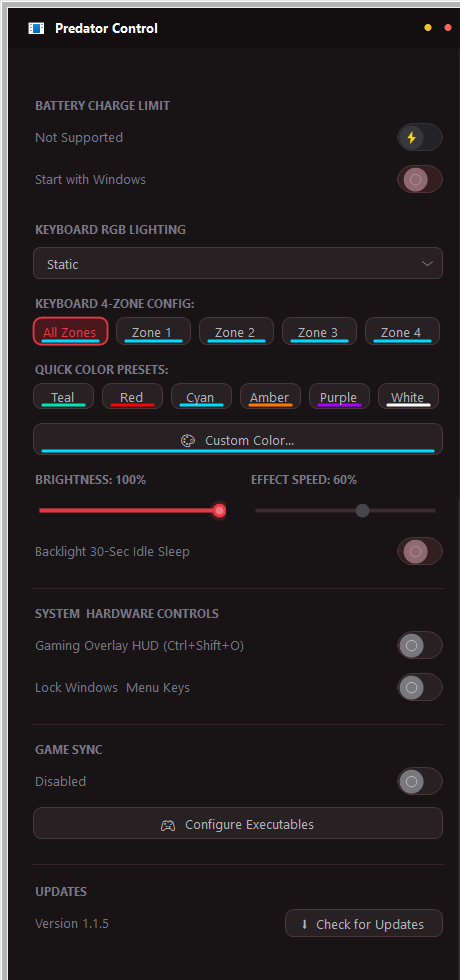
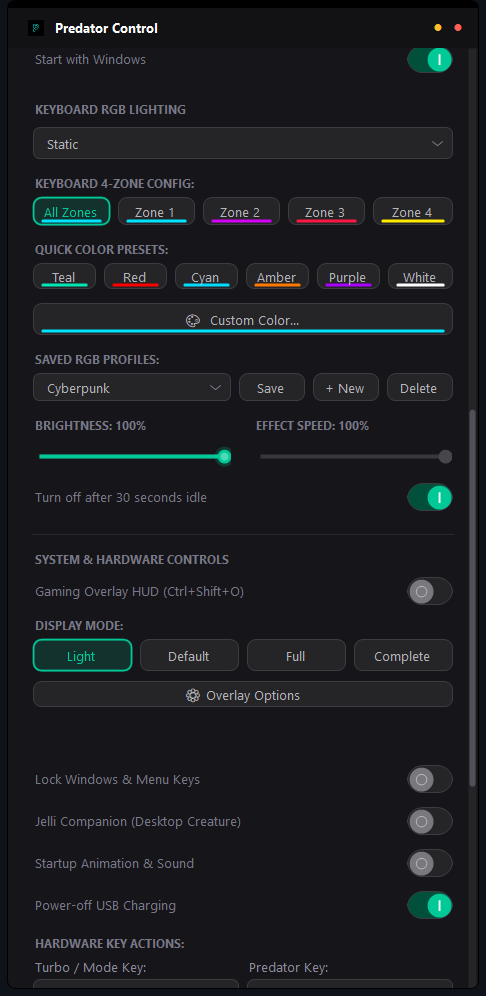
docs: refresh v1.4.2 Jelli, Classic and overlay previews

diff --git a/README.md b/README.md
@@ -23,17 +23,37 @@ Direct hardware control, **<1ms zero-lag UI responsiveness**, **~18–35 MB RAM*
 ### 🖼 UI & Gaming Overlay Previews
 
 <div align="center">
-  <h4>🎮 In-Game Gaming Overlay HUD (Zero-Injection ETW FPS Counter)</h4>
-  <p><img src="assets/preview_overlay.png" width="620" alt="In-Game Gaming Overlay HUD"/></p>
-  <br/>
+  <p>Real screenshots from Predator Control v1.4.2. Click any image to view it at full size.</p>
+  <h4>🪼 Jelli — Expanded Overview</h4>
+  <p><a href="assets/preview_jelli.png"><img src="assets/preview_jelli.png" width="430" alt="Predator Control v1.4.2 Jelli expanded Overview with jellyfish mascot and live hardware metrics"/></a></p>
+  <h4>🖥 Classic Control Panel</h4>
   <table>
     <tr>
-      <td align="center"><b>Dashboard, Thermals & GPU MUX Switch</b></td>
-      <td align="center"><b>RGB Lighting & System Controls</b></td>
+      <td align="center" width="50%"><b>Dashboard, Thermals & GPU Controls</b></td>
+      <td align="center" width="50%"><b>RGB Lighting & System Controls</b></td>
     </tr>
     <tr>
-      <td><img src="assets/preview_dashboard.png" width="340" alt="Dashboard Preview"/></td>
-      <td><img src="assets/preview_controls.png" width="340" alt="Controls Preview"/></td>
+      <td><a href="assets/preview_dashboard.png"><img src="assets/preview_dashboard.png" width="340" alt="Predator Control v1.4.2 Classic dashboard with live thermals, performance profiles, fan controls and GPU controls"/></a></td>
+      <td><a href="assets/preview_controls.png"><img src="assets/preview_controls.png" width="340" alt="Predator Control v1.4.2 Classic RGB lighting and system controls"/></a></td>
+    </tr>
+  </table>
+  <h4>🎮 Gaming Overlay — Four Display Modes</h4>
+  <table>
+    <tr>
+      <td align="center" width="50%"><b>Light</b></td>
+      <td align="center" width="50%"><b>Default</b></td>
+    </tr>
+    <tr>
+      <td><a href="assets/preview_overlay_light.png"><img src="assets/preview_overlay_light.png" width="179" alt="Predator Control v1.4.2 gaming overlay in Light mode"/></a></td>
+      <td><a href="assets/preview_overlay.png"><img src="assets/preview_overlay.png" width="328" alt="Predator Control v1.4.2 gaming overlay in Default mode"/></a></td>
+    </tr>
+    <tr>
+      <td align="center"><b>Full</b></td>
+      <td align="center"><b>Complete</b></td>
+    </tr>
+    <tr>
+      <td><a href="assets/preview_overlay_full.png"><img src="assets/preview_overlay_full.png" width="340" alt="Predator Control v1.4.2 gaming overlay in Full mode"/></a></td>
+      <td><a href="assets/preview_overlay_complete.png"><img src="assets/preview_overlay_complete.png" width="340" alt="Predator Control v1.4.2 gaming overlay in Complete mode"/></a></td>
     </tr>
   </table>
 </div>
